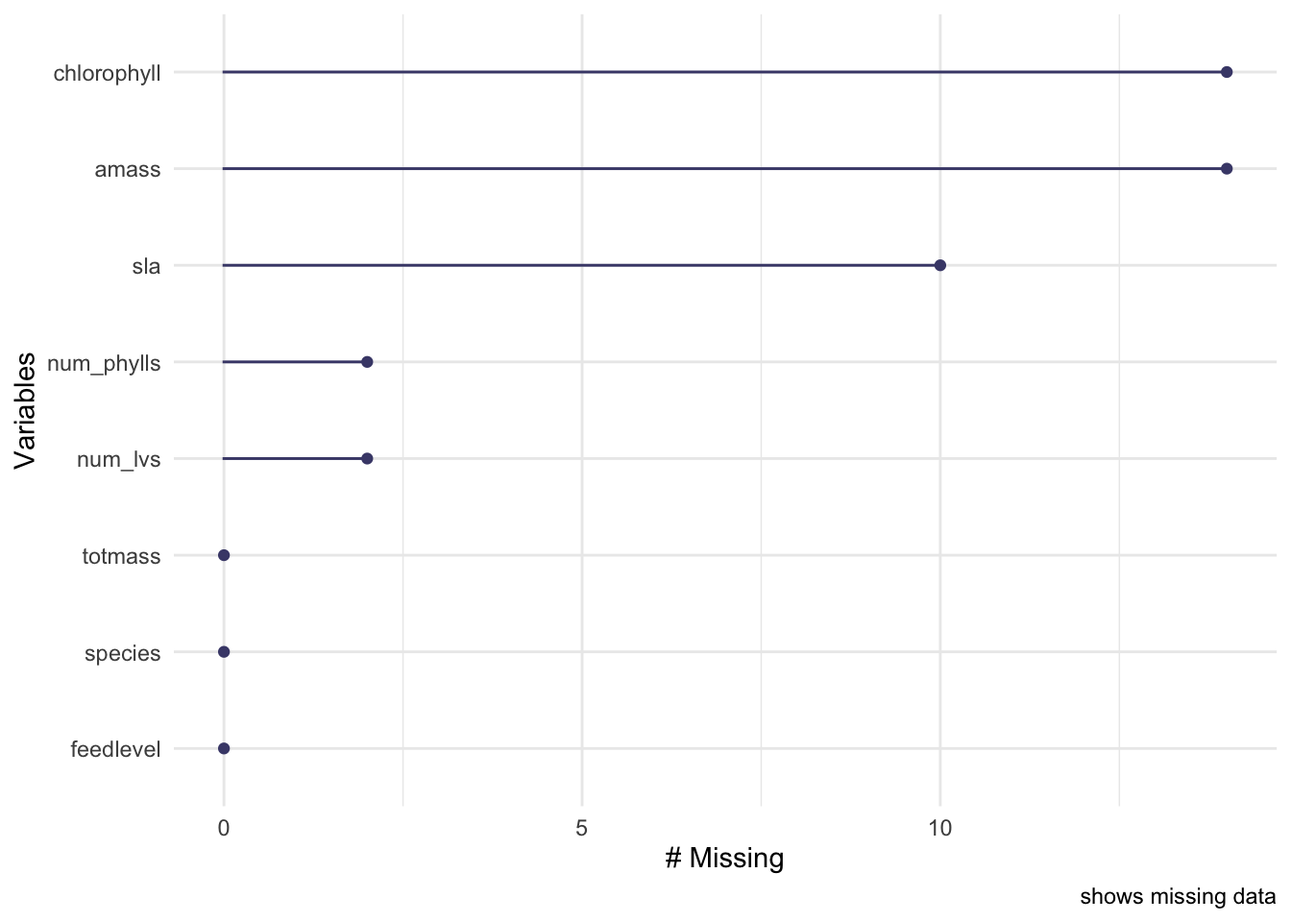
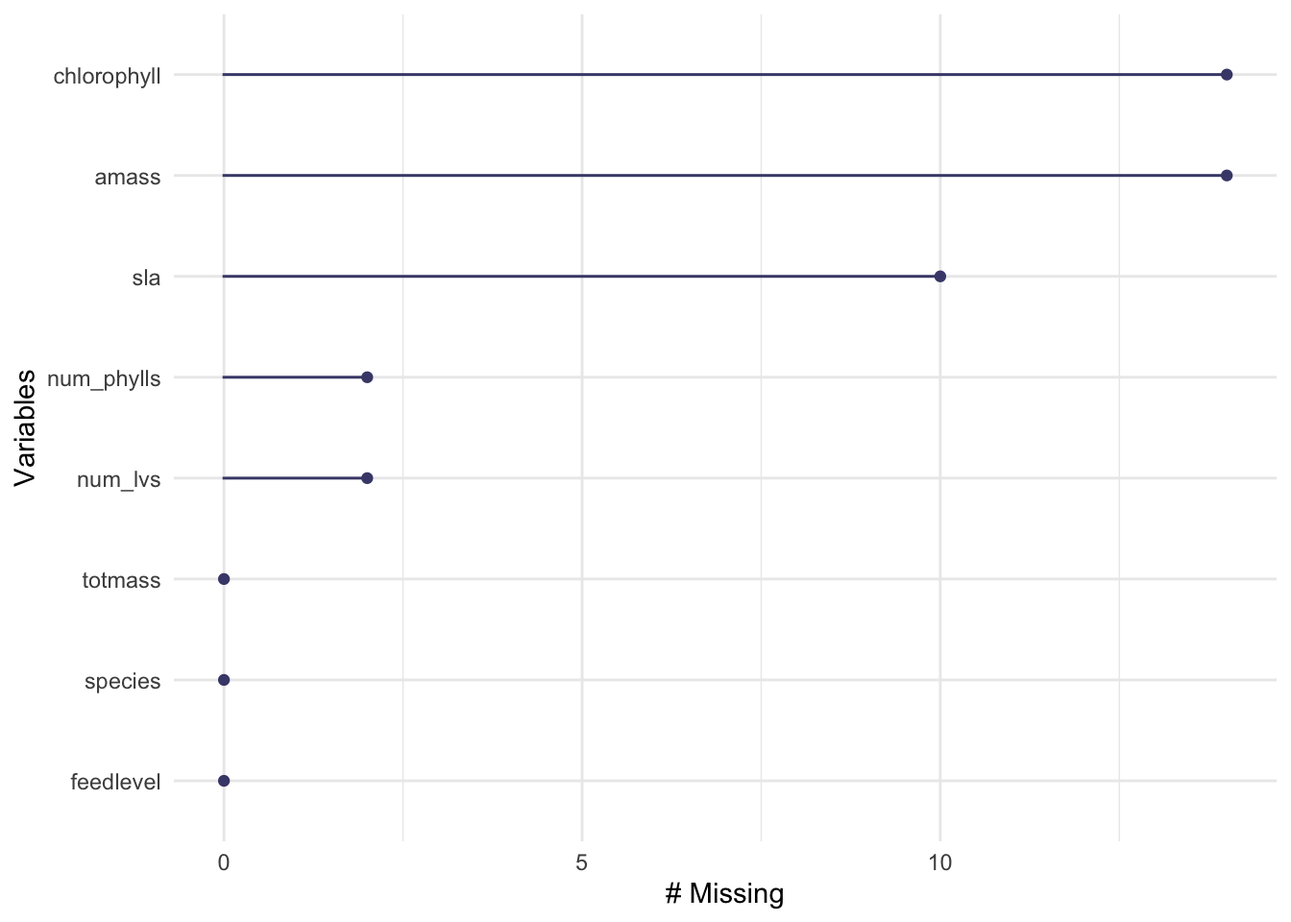
q

diff --git a/code.hw5/Homework_5.html b/code.hw5/Homework_5.html
@@ -104,7 +104,16 @@ code span.wa { color: #60a0b0; font-weight: bold; font-style: italic; } /* Warni
 
 <div id="quarto-content" class="page-columns page-rows-contents page-layout-article toc-left">
 <div id="quarto-sidebar-toc-left" class="sidebar toc-left">
-  
+  <nav id="TOC" role="doc-toc" class="toc-active">
+    <h2 id="toc-title">Table of contents</h2>
+   
+  <ul>
+  <li><a href="#introduction" id="toc-introduction" class="nav-link active" data-scroll-target="#introduction"><strong>Introduction</strong></a></li>
+  <li><a href="#methods" id="toc-methods" class="nav-link" data-scroll-target="#methods"><strong>Methods</strong></a></li>
+  <li><a href="#results" id="toc-results" class="nav-link" data-scroll-target="#results">Results</a></li>
+  <li><a href="#citations" id="toc-citations" class="nav-link" data-scroll-target="#citations"><strong>Citations</strong></a></li>
+  </ul>
+</nav>
 </div>
 <div id="quarto-margin-sidebar" class="sidebar margin-sidebar">
 </div>
@@ -130,6 +139,7 @@ code span.wa { color: #60a0b0; font-weight: bold; font-style: italic; } /* Warni
 <p>Ethan Blacher</p>
 <p>6/5/23</p>
 <p>Homework 5</p>
+<p>Github repository: https://github.com/ethanblacher/ENVS-193DS_homework-05.git</p>
 <div class="cell">
 <details>
 <summary>Code</summary>
@@ -150,10 +160,12 @@ code span.wa { color: #60a0b0; font-weight: bold; font-style: italic; } /* Warni
 <span id="cb1-15"><a href="#cb1-15" aria-hidden="true" tabindex="-1"></a><span class="fu">library</span>(MuMIn)</span></code><button title="Copy to Clipboard" class="code-copy-button"><i class="bi"></i></button></pre></div>
 </details>
 </div>
-<ol start="6" type="1">
-<li><p><strong>Introduction</strong></p>
-<p>This analysis revolves around a study conducted at Harvard Forest in 2005, which explored the impact of prey availability on Sarracenia physiology. Sarracenia, also known as pitcher plants, are carnivorous wetland flora indigenous to North America (Farnsworth and Ellison). Pitcher plants are of interest to scientists because while plants typically contain an allometric relationship between nutrient and physiology (notably leaf size), referred to as the ‘world-wide leaf economics spectrum’ (Farnsworth and Ellison) this near-universal rule does not apply to carnivorous plants (such as Sarracenia). Due to the fact that carnivorous plants have low photosynthetic rates along with nitrogen and phosphorous use efficiency, their physiology has an outsized reliance on prey capture (Farnsworth and Ellison). Since prey capture is a leading indicator of carnivorous plant health (indicating crucial metrics like survival, growth, and reproduction) it is important to test how Sarracenia react to changes in the abunace of prey (Horner, Steele, Underwood, and Lingamfelter). Additionally, predicting individual biomass of Sarracenia based on morphological, physiological, or taxonomic characteristics is valuable because it allows a better understanding of their growth patterns, resource allocation, and ecological roles, potentailly shedding light on effective management practices and their contributions to ecosystem services. The study addressed the effects of prey availability on a litany of factors, using photosynthetic rate (Amass), chlorophyll fluorescence, growth, architecture, and foliar nutrient and chlorophyll content of ten pitcher plant (Sarracenia) species as indicators. A few interesting questions raised by this experiment is how prey density impacts Sarracenia growth and health, how does plant age alter their appetite and physiology, and ultimately when Sarracenia have unlimited resources whether their morphological and physiological allometric relationships resemble those of non-carnivorous plants (Lorne). This resulted in the hypothesis that increased prey availability would increase Amass, photosynthetic N- and P-use efficiencies, relative biomass allocation to photosynthetically efficient, non-predatory phyllodes rather than pitchers, overall plant biomass, and reduce stress-related chlorophyll fluorescence.</p></li>
-<li><p><strong>Methods</strong></p>
+<section id="introduction" class="level1">
+<h1><strong>Introduction</strong></h1>
+<p>This analysis revolves around a study conducted at Harvard Forest in 2005, which explored the impact of prey availability on Sarracenia physiology. Sarracenia, also known as pitcher plants, are carnivorous wetland flora indigenous to North America (Farnsworth and Ellison). Pitcher plants are of interest to scientists because while plants typically contain an allometric relationship between nutrient and physiology (notably leaf size), referred to as the ‘world-wide leaf economics spectrum’ (Farnsworth and Ellison) this near-universal rule does not apply to carnivorous plants (such as Sarracenia). Due to the fact that carnivorous plants have low photosynthetic rates along with nitrogen and phosphorous use efficiency, their physiology has an outsized reliance on prey capture (Farnsworth and Ellison). Since prey capture is a leading indicator of carnivorous plant health (indicating crucial metrics like survival, growth, and reproduction) it is important to test how Sarracenia react to changes in the abunace of prey (Horner, Steele, Underwood, and Lingamfelter). Additionally, predicting individual biomass of Sarracenia based on morphological, physiological, or taxonomic characteristics is valuable because it allows a better understanding of their growth patterns, resource allocation, and ecological roles, potentailly shedding light on effective management practices and their contributions to ecosystem services. The study addressed the effects of prey availability on a litany of factors, using photosynthetic rate (Amass), chlorophyll fluorescence, growth, architecture, and foliar nutrient and chlorophyll content of ten pitcher plant (Sarracenia) species as indicators. A few interesting questions raised by this experiment is how prey density impacts Sarracenia growth and health, how does plant age alter their appetite and physiology, and ultimately when Sarracenia have unlimited resources whether their morphological and physiological allometric relationships resemble those of non-carnivorous plants (Lorne). This resulted in the hypothesis that increased prey availability would increase Amass, photosynthetic N- and P-use efficiencies, relative biomass allocation to photosynthetically efficient, non-predatory phyllodes rather than pitchers, overall plant biomass, and reduce stress-related chlorophyll fluorescence.</p>
+</section>
+<section id="methods" class="level1">
+<h1><strong>Methods</strong></h1>
 <div class="cell">
 <details>
 <summary>Code</summary>
@@ -165,23 +177,23 @@ code span.wa { color: #60a0b0; font-weight: bold; font-style: italic; } /* Warni
 </details>
 </div>
 <p>a.</p>
-<p>120 Sarracenia plants ranging in size from small, medium, and large were used for the study were collected from the sampling site: Harvard Forest Greenhouse (meta data). To conduct the study, plants were fed once a week for 7 weeks straight (meta data). Two plants of each Sarracenia species were assigned to one of six feeding levels in a regression design ranging from 0 - 0.25g of finely ground wasps per feeding (for small species), 0 - 0.5g (for species of intermediate sizes), and 0 - 1.0g (for large species) (meta data). “Aboveground size” and “Amass” were measured prior to commencing treatments, meanwhile all other parameters were measured during the duration of the study (meta data).</p>
+<p>Two plants of each Sarracenia species were allocated to one of six feeding levels in a regression design ranging from 0 to a quarter gram of finely ground wasps per feeding (for small sized species), 0 to half a gram (for medium sized species), and 0 to one gram (for large sized species) (metadata). Plants were fed once a week for 7 weeks, with the above ground size and amass (mass-based light-saturated photosynthetic rate of youngest leaf) measured before beginning treatments (metadata). In total, the measurements contain twelve plants per ten different Sarracenia species, equaling 120 total plant observations (metadata).</p>
 <p>b.</p>
-<p>In order to organize the data after reading in the necessary packages, it is important to see what data was measured. To do so, the full data set was read in using the read_csv and the here function, then to make the names of the objects within the data set more clear and too only include the objects of interest the clean_names and select functions were applied. The data set now appears readable with the data set reporting values observed for totmass, species, feedlevel, sla, chlorophyll, amass, num_lvs, num_phylls</p>
+<p>We organized the data by first importing the file into the “ENVS-193DS_homework-05” folder and placing it in the “data.hw5” folder. We then used the read_csv and here function to call the data into this document, which we then proceeded to clean the data by making the column names clear (‘clean_names’) and then selected only the parameters which were pertinent to this assignment (‘select’). Later, we will drop the missing data using the ‘drop.na’ function.</p>
 <p>c.</p>
+<p>Discussion: Since there is a decent amount of missing data in a few parameters, it is important to identify where there is missing data to identify where bias and errors in the analysis might appear and skew the results.</p>
 <div class="cell">
 <details>
 <summary>Code</summary>
-<div class="sourceCode cell-code" id="cb3"><pre class="sourceCode r code-with-copy"><code class="sourceCode r"><span id="cb3-1"><a href="#cb3-1" aria-hidden="true" tabindex="-1"></a><span class="fu">gg_miss_var</span>(sarr) <span class="sc">+</span> <span class="fu">labs</span>(</span>
-<span id="cb3-2"><a href="#cb3-2" aria-hidden="true" tabindex="-1"></a>  <span class="at">caption =</span> <span class="st">"shows missing data"</span> )</span></code><button title="Copy to Clipboard" class="code-copy-button"><i class="bi"></i></button></pre></div>
+<div class="sourceCode cell-code" id="cb3"><pre class="sourceCode r code-with-copy"><code class="sourceCode r"><span id="cb3-1"><a href="#cb3-1" aria-hidden="true" tabindex="-1"></a><span class="fu">gg_miss_var</span>(sarr) </span></code><button title="Copy to Clipboard" class="code-copy-button"><i class="bi"></i></button></pre></div>
 </details>
 <div class="cell-output-display">
 <p><img src="Homework_5_files/figure-html/Missing_Data_Viz-1.png" class="img-fluid" width="672"></p>
 </div>
 </div>
-<p><strong>Caption: The gg_miss_var function highlights missing data within the “sarr” data set. The plot highlights missing data in the chlorophyll, amass, sla, num_phylls, and num_lvs columns, leaving only totmass, species, and feedlevel as columns without missing data.</strong></p>
-<p><strong>Discussion: Since there is a decent amount of missing data in a few parameters, it is important to identify where there is missing data to identify where bias and errors in the analysis might appear and skew the results.</strong></p>
+<p>Caption: The gg_miss_var function highlights missing data within the “sarr” data set. The plot highlights missing data in the chlorophyll, amass, sla, num_phylls, and num_lvs columns, leaving only totmass, species, and feedlevel as columns without missing data.</p>
 <p>d.</p>
+<p>Discussion: After calculating pearson’s r, it is apparent that none of the variables a strong correlation, since the highest value was only .32 between amass and sla. The correlations between sla and feedlevel, chlorophyll and sla, num_lvs and feedlevel, num_phylls and sla, and num_phylls and chlorophyll all had small, negative r values. On the other hand, chlorophyll and feedlevel, amass and feedlevel, num_phylls and feedlevel, and sla and num_lvs all have small, postive r values, with their being no correlation between amass and num_phylls (r=0).</p>
 <div class="cell">
 <details>
 <summary>Code</summary>
@@ -208,11 +220,10 @@ code span.wa { color: #60a0b0; font-weight: bold; font-style: italic; } /* Warni
 <div class="cell-output-display">
 <p><img src="Homework_5_files/figure-html/Pearson_Viz-1.png" class="img-fluid" width="672"></p>
 </div>
-</div></li>
-</ol>
-<p><strong>Caption: To determine the relationship between the numerical variables in our data “sarr_subset”, we calculcated pearson’s r and highlighted the correlation using a correlation plot. The numerical variables we compared were feedlevel, sla, chlorophyll, amass, num_lvs, and num_phylls.</strong></p>
-<p><strong>Discussion: After calculating pearson’s r, it is apparent that none of the variables a strong correlation, since the highest value was only .32 between amass and sla. The correlations between sla and feedlevel, chlorophyll and sla, num_lvs and feedlevel, num_phylls and sla, and num_phylls and chlorophyll all had small, negative r values. On the other hand, chlorophyll and feedlevel, amass and feedlevel, num_phylls and feedlevel, and sla and num_lvs all have small, postive r values, with their being no correlation between amass and num_phylls (r=0).</strong></p>
+</div>
+<p>Caption: To determine the relationship between the numerical variables in our data “sarr_subset”, we calculcated pearson’s r and highlighted the correlation using a correlation plot. The numerical variables we compared were feedlevel, sla, chlorophyll, amass, num_lvs, and num_phylls.</p>
 <p>e.</p>
+<p>Discussion: After visualizing the relationships between different variables in pearson’s r, the ggpair function shows the relationships between different variables depending on what type of data the variable is. Box plots are used to represent the relationships between species (categorical) and the other variables (continuous or discrete), while scatter plots and line graphs show the relationships between continuous and discrete variables.</p>
 <div class="cell">
 <details>
 <summary>Code</summary>
@@ -224,9 +235,9 @@ code span.wa { color: #60a0b0; font-weight: bold; font-style: italic; } /* Warni
 <p><img src="Homework_5_files/figure-html/pair-plot-1.png" class="img-fluid" width="672"></p>
 </div>
 </div>
-<p>Caption: In order to visualize the relationship between the variables the ggpairs function was applied. The ggpairs function builds a scatterplot matrix that displays scatterplots of each pair of numeric values, while also displaying pearson’s r on the right and the variable distribution on the diagonal.</p>
-<p>Discussion: After visualizing the relationships between each pair of variables, the ggpair function reveals the different relationships between different varibales depending on the type of data each variable is. Box plots are used to represent relationships between species, categorical data, and the rest of the variables, continuous or discrete. The scatter plots and line graphs highlight relationships between continuous and discrete data.</p>
+<p>Caption: The ggpairs function was implemented to visualize the relationship between the different types of variables. ggpairs builds a scatterplot matrix that displays scatterplots of each pair of numeric data, the variable distribution on the diagonal, and pearson’s r on the right.</p>
 <p>f.</p>
+<p>Discussion: To determine how the many variables predict biomass (totmass), we make multiple linear models. The null model makes a regression that assumes no relationship between totmass and the predictor variables. Meanwhile, the full model makes a regression that assumes there is a relationship between totmass and the predictor variables in their ability to predict biomass.</p>
 <div class="cell">
 <details>
 <summary>Code</summary>
@@ -234,8 +245,8 @@ code span.wa { color: #60a0b0; font-weight: bold; font-style: italic; } /* Warni
 <span id="cb7-2"><a href="#cb7-2" aria-hidden="true" tabindex="-1"></a>full <span class="ot">&lt;-</span> <span class="fu">lm</span>(totmass <span class="sc">~</span> species <span class="sc">+</span> feedlevel <span class="sc">+</span> sla <span class="sc">+</span> chlorophyll <span class="sc">+</span> amass <span class="sc">+</span> num_lvs <span class="sc">+</span> num_phylls, <span class="at">data=</span> sarr_subset)</span></code><button title="Copy to Clipboard" class="code-copy-button"><i class="bi"></i></button></pre></div>
 </details>
 </div>
-<p>To determine how species and physiological characteristics perditc biomass, we fit multiple linear models. The null model creates a regression model that assumes no realtionship between totmass and the predictor variables. On the other hand, the full model creates a regression model that assumes a relationship between totmass and the predictor variables in order to predict biomass.</p>
 <p>g.</p>
+<p>Discussion: We visually checked normality and homoscedasicty using diagnostic plots for the full model and found that while the data appears normal, it does not appear homoscedastic because it is not scattered randomly. We also tested for normality using the Shaprio-Wilk test and found non-normality of residuals. Additionally, we tested for homoscedasticity using the Breusch-Pagan test and found non-constant error variance which proved that the data is not homoscedstic but rather heteroscedastic.</p>
 <div class="cell">
 <details>
 <summary>Code</summary>
@@ -262,8 +273,8 @@ code span.wa { color: #60a0b0; font-weight: bold; font-style: italic; } /* Warni
 <pre><code>Warning: Heteroscedasticity (non-constant error variance) detected (p &lt; .001).</code></pre>
 </div>
 </div>
-<p>We visually assesed normaility and homoskedascitity using diagnostic plots for the full model and found that the data is appears normal, but not homoskedastic because the data is not scattered entirely random. We also tested for normality using the Shaprio-Wilk test and found non-normality of residuals. We then retested for homoscedasticity using the Breusch-Pagan test and detected non-constant error variance meaning the data is heteroscedastic.</p>
 <p>h.</p>
+<p>Discussion: After testing for normality and homoscedasitity for the full model, we found that the data is non-normal and heteroscedastic. We used a log transformation to attempt to correct the skewed nature of the data, and order after the transformation we manipulated the residuals so they were normally distributed and homoscedastic.</p>
 <div class="cell">
 <details>
 <summary>Code</summary>
@@ -273,16 +284,16 @@ code span.wa { color: #60a0b0; font-weight: bold; font-style: italic; } /* Warni
 <span id="cb13-4"><a href="#cb13-4" aria-hidden="true" tabindex="-1"></a><span class="fu">plot</span>(full_log)</span></code><button title="Copy to Clipboard" class="code-copy-button"><i class="bi"></i></button></pre></div>
 </details>
 <div class="cell-output-display">
-<p><img src="Homework_5_files/figure-html/unnamed-chunk-1-1.png" class="img-fluid" width="672"></p>
+<p><img src="Homework_5_files/figure-html/log_transformation-1.png" class="img-fluid" width="672"></p>
 </div>
 <div class="cell-output-display">
-<p><img src="Homework_5_files/figure-html/unnamed-chunk-1-2.png" class="img-fluid" width="672"></p>
+<p><img src="Homework_5_files/figure-html/log_transformation-2.png" class="img-fluid" width="672"></p>
 </div>
 <div class="cell-output-display">
-<p><img src="Homework_5_files/figure-html/unnamed-chunk-1-3.png" class="img-fluid" width="672"></p>
+<p><img src="Homework_5_files/figure-html/log_transformation-3.png" class="img-fluid" width="672"></p>
 </div>
 <div class="cell-output-display">
-<p><img src="Homework_5_files/figure-html/unnamed-chunk-1-4.png" class="img-fluid" width="672"></p>
+<p><img src="Homework_5_files/figure-html/log_transformation-4.png" class="img-fluid" width="672"></p>
 </div>
 <details>
 <summary>Code</summary>
@@ -299,8 +310,8 @@ code span.wa { color: #60a0b0; font-weight: bold; font-style: italic; } /* Warni
 <pre><code>OK: Error variance appears to be homoscedastic (p = 0.071).</code></pre>
 </div>
 </div>
-<p>After visually assesing normaility and homoscedascitity using diagnostic plots for the full model, we found that the data appeared to be non-normal and heteroscedasitic. In order to reduce the skewness of variable of interest, we applied a log transformation. Once we did this we were able to manipulate the residuals in a manner that reported normal distribution and homoscedastic variance.</p>
 <p>i.</p>
+<p>Discussion: To determine which variables best predicts biomass (totmass), we chose three linear models using predicter variables chlorophyll, amass, and species respectively. The model comparing species as predictor variable and totmass as the response variable was found to be normal and homoscedastic. The models comparing chlorophyll and amass to predict totmass, respectively, both were found to be non-normal but homoscedastic. We chose these variables because species, chlorophyll content of youngest leaf, and the photosynthetic rate of youngest leaf could all potentially impact the total mass of individual plants. For instance, there is fluctuations within different species, and chlorophyll levels along with photosynthetic rate are essential metrics in evaluating how a plant converts light into energy, which ultimately impacts biomass.</p>
 <div class="cell">
 <details>
 <summary>Code</summary>
@@ -401,7 +412,8 @@ code span.wa { color: #60a0b0; font-weight: bold; font-style: italic; } /* Warni
 <pre><code>OK: Error variance appears to be homoscedastic (p = 0.100).</code></pre>
 </div>
 </div>
-<p>The three models we chose to asses which predictor variables best model the response were chlorophyll, amass, and species.</p>
+<p>j.</p>
+<p>Discussion: We assesed muticollinearity by determining the variance inflation factor and concluded that this model didn’t display multicolinearity because there weren’t any values greater than 5.</p>
 <div class="cell">
 <details>
 <summary>Code</summary>
@@ -418,15 +430,15 @@ num_lvs      2.813855  1        1.677455
 num_phylls   2.995510  1        1.730754</code></pre>
 </div>
 </div>
-<p>We evaluated muticollinarity by calculating the generalized variance inflation factor and determined that this model didn’t display any multicolinearity because no values were larger than 5.</p>
 <p>k.</p>
+<p>Discussion: After comparing the models using the Akaike’s Information Criterion, we chose the model with the lowest value, which was the full_log model.</p>
 <div class="cell">
 <details>
 <summary>Code</summary>
-<div class="sourceCode cell-code" id="cb36"><pre class="sourceCode r code-with-copy"><code class="sourceCode r"><span id="cb36-1"><a href="#cb36-1" aria-hidden="true" tabindex="-1"></a><span class="fu">AICc</span>(full)</span></code><button title="Copy to Clipboard" class="code-copy-button"><i class="bi"></i></button></pre></div>
+<div class="sourceCode cell-code" id="cb36"><pre class="sourceCode r code-with-copy"><code class="sourceCode r"><span id="cb36-1"><a href="#cb36-1" aria-hidden="true" tabindex="-1"></a><span class="fu">AICc</span>(full_log)</span></code><button title="Copy to Clipboard" class="code-copy-button"><i class="bi"></i></button></pre></div>
 </details>
 <div class="cell-output cell-output-stdout">
-<pre><code>[1] 497.3964</code></pre>
+<pre><code>[1] 133.9424</code></pre>
 </div>
 <details>
 <summary>Code</summary>
@@ -451,54 +463,54 @@ num_phylls   2.995510  1        1.730754</code></pre>
 </div>
 <details>
 <summary>Code</summary>
-<div class="sourceCode cell-code" id="cb44"><pre class="sourceCode r code-with-copy"><code class="sourceCode r"><span id="cb44-1"><a href="#cb44-1" aria-hidden="true" tabindex="-1"></a><span class="fu">AICc</span>(null)</span></code><button title="Copy to Clipboard" class="code-copy-button"><i class="bi"></i></button></pre></div>
+<div class="sourceCode cell-code" id="cb44"><pre class="sourceCode r code-with-copy"><code class="sourceCode r"><span id="cb44-1"><a href="#cb44-1" aria-hidden="true" tabindex="-1"></a><span class="fu">AICc</span>(null_log)</span></code><button title="Copy to Clipboard" class="code-copy-button"><i class="bi"></i></button></pre></div>
 </details>
 <div class="cell-output cell-output-stdout">
-<pre><code>[1] 630.4028</code></pre>
+<pre><code>[1] 306.0028</code></pre>
 </div>
 <details>
 <summary>Code</summary>
-<div class="sourceCode cell-code" id="cb46"><pre class="sourceCode r code-with-copy"><code class="sourceCode r"><span id="cb46-1"><a href="#cb46-1" aria-hidden="true" tabindex="-1"></a>MuMIn<span class="sc">::</span><span class="fu">AICc</span>(full, model_1, model_2, model_3, null)</span></code><button title="Copy to Clipboard" class="code-copy-button"><i class="bi"></i></button></pre></div>
+<div class="sourceCode cell-code" id="cb46"><pre class="sourceCode r code-with-copy"><code class="sourceCode r"><span id="cb46-1"><a href="#cb46-1" aria-hidden="true" tabindex="-1"></a>MuMIn<span class="sc">::</span><span class="fu">AICc</span>(full_log, model_1, model_2, model_3, null_log)</span></code><button title="Copy to Clipboard" class="code-copy-button"><i class="bi"></i></button></pre></div>
 </details>
 <div class="cell-output cell-output-stdout">
-<pre><code>        df     AICc
-full    17 497.3964
-model_1  3 307.3680
-model_2  3 308.0364
-model_3 11 157.5751
-null     2 630.4028</code></pre>
+<pre><code>         df     AICc
+full_log 17 133.9424
+model_1   3 307.3680
+model_2   3 308.0364
+model_3  11 157.5751
+null_log  2 306.0028</code></pre>
 </div>
 <details>
 <summary>Code</summary>
-<div class="sourceCode cell-code" id="cb48"><pre class="sourceCode r code-with-copy"><code class="sourceCode r"><span id="cb48-1"><a href="#cb48-1" aria-hidden="true" tabindex="-1"></a>MuMIn<span class="sc">::</span><span class="fu">model.sel</span>(full, model_1, model_2, model_3, null)</span></code><button title="Copy to Clipboard" class="code-copy-button"><i class="bi"></i></button></pre></div>
+<div class="sourceCode cell-code" id="cb48"><pre class="sourceCode r code-with-copy"><code class="sourceCode r"><span id="cb48-1"><a href="#cb48-1" aria-hidden="true" tabindex="-1"></a>MuMIn<span class="sc">::</span><span class="fu">model.sel</span>(full_log, model_1, model_2, model_3, null_log)</span></code><button title="Copy to Clipboard" class="code-copy-button"><i class="bi"></i></button></pre></div>
 </details>
 <div class="cell-output cell-output-stdout">
 <pre><code>Model selection table 
-          (Int)        ams      chl    fdl num_lvs   num_phy       sla spc df
-model_3  0.8836                                                          + 11
-model_1  0.4650            0.001877                                         3
-model_2  1.3970 -0.0013330                                                  3
-full    -3.9560  0.0001326 0.011180 -2.082  0.4668 -0.002333 -0.009469   + 17
-null     6.0220                                                             2
-          logLik  AICc  delta weight
-model_3  -66.337 157.6   0.00      1
-model_1 -150.563 307.4 149.79      0
-model_2 -150.897 308.0 150.46      0
-full    -228.098 497.4 339.82      0
-null    -313.141 630.4 472.83      0
+           (Int)       ams      chl     fdl num_lvs  num_phy       sla spc df
+full_log -1.3390  0.002338 0.004368 -0.4743 0.09176 -0.03959 -0.002493   + 17
+model_3   0.8836                                                         + 11
+null_log  1.3500                                                            2
+model_1   0.4650           0.001877                                         3
+model_2   1.3970 -0.001333                                                  3
+           logLik  AICc  delta weight
+full_log  -46.371 133.9   0.00      1
+model_3   -66.337 157.6  23.63      0
+null_log -150.941 306.0 172.06      0
+model_1  -150.563 307.4 173.43      0
+model_2  -150.897 308.0 174.09      0
 Models ranked by AICc(x) </code></pre>
 </div>
 </div>
-<ol start="6" type="1">
-<li><strong>Results</strong></li>
-</ol>
-<!-- -->
-<ol start="9" type="1">
-<li><p><strong>Citations</strong></p>
+</section>
+<section id="results" class="level1">
+<h1>Results</h1>
+</section>
+<section id="citations" class="level1">
+<h1><strong>Citations</strong></h1>
 <p>Farnsworth, Elizabeth J., and Aaron M. Ellison. “Prey Availability Directly Affects Physiology, Growth, Nutrient Allocation and Scaling Relationships among Leaf Traits in 10 Carnivorous Plant Species.” <em>Journal of Ecology</em>, Vol. 0, No.&nbsp;0, 2007, https://doi.org/10.1111/j.1365-2745.2007.01313.x</p>
 <p>Horner, John D., Steele, Cross J., Underwood, Christopher A., Lingamfelter, Daniel. “Age-Related Changes in Characteristics and Prey Capture of Seasonal Cohorts of Sarracenia alata Pitchers.” <em>The American Midland Naturalist,</em> Vol. 167, No.&nbsp;1, 2012,<a href="#0">https://doi.org/10.1674/0003-0031-167.1.13</a></p>
-<p>Wolfe, Lorne M. “Feeding Behavior of a Plant: Differential Prey Capture in Old and New Leaves of the Pitcher Plant (Sarracenia purpurea).” <em>The American Midland Naturalist,</em> Vol. 106, No.&nbsp;2, 1981, https://www.jstor.org/stable/2425172?origin=crossref</p></li>
-</ol>
+<p>Wolfe, Lorne M. “Feeding Behavior of a Plant: Differential Prey Capture in Old and New Leaves of the Pitcher Plant (Sarracenia purpurea).” <em>The American Midland Naturalist,</em> Vol. 106, No.&nbsp;2, 1981, https://www.jstor.org/stable/2425172?origin=crossref</p>
+</section>
 
 </main>
 <!-- /main column -->
